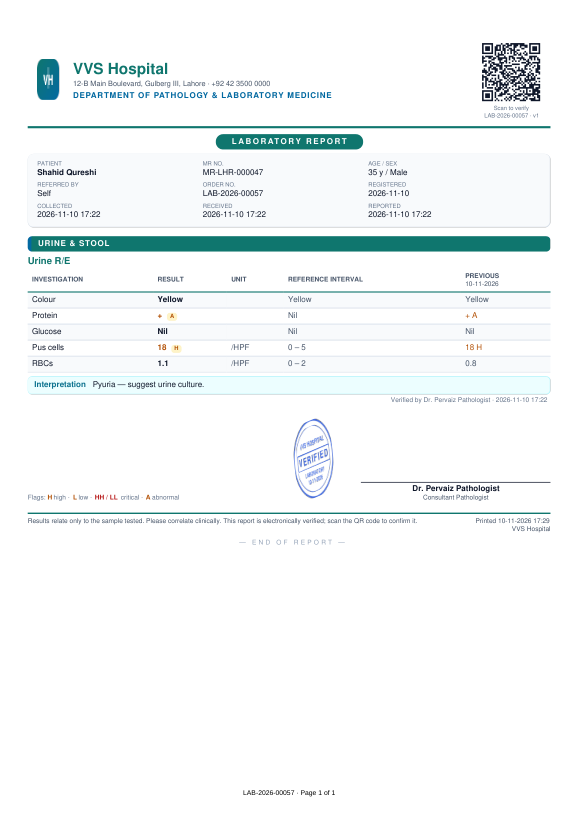
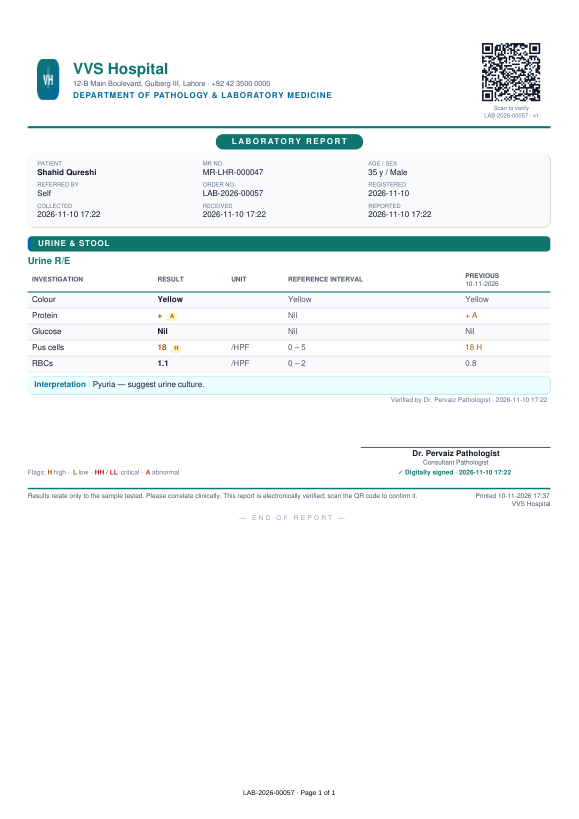
fix(lab): no stamp on the report — digitally signed line instead

Changed region(s): [[0.0311, 0.4884, 0.9637, 0.6716]]

diff --git a/hospital_vvs/services/lab.py b/hospital_vvs/services/lab.py
@@ -593,16 +593,6 @@ def _monogram(name):
 		<text x="32" y="41" font-family="Helvetica,Arial" font-size="22" font-weight="700" text-anchor="middle" fill="#fff">{frappe.utils.escape_html(letters)}</text></svg>""")
 
 
-def _stamp(clinic, date):
-	c = frappe.utils.escape_html((clinic or "").upper())[:22]
-	return _svg_uri(f"""<svg xmlns="http://www.w3.org/2000/svg" viewBox="0 0 160 160"><g transform="rotate(-12 80 80)" font-family="Helvetica,Arial" fill="#1d4ed8" text-anchor="middle">
-		<circle cx="80" cy="80" r="74" fill="none" stroke="#1d4ed8" stroke-width="4" opacity=".8"/><circle cx="80" cy="80" r="64" fill="none" stroke="#1d4ed8" stroke-width="1.5" opacity=".8"/>
-		<text x="80" y="52" font-size="13" font-weight="700" opacity=".85">{c}</text>
-		<rect x="18" y="64" width="124" height="30" rx="4" fill="none" stroke="#1d4ed8" stroke-width="2.5" opacity=".85"/>
-		<text x="80" y="86" font-size="20" font-weight="800" letter-spacing="3" opacity=".9">VERIFIED</text>
-		<text x="80" y="112" font-size="11" font-weight="700" opacity=".85">LABORATORY</text><text x="80" y="126" font-size="11" font-weight="700" opacity=".85">{frappe.utils.escape_html(date)}</text></g></svg>""")
-
-
 def print_extras(ti, tests):
 	"""Header / footer / signatory data for the printed report (D-50)."""
 	s = frappe.get_cached_doc("Clinic Settings")
@@ -613,7 +603,6 @@ def print_extras(ti, tests):
 	vuser = next((v for v in reversed(verifiers) if v and v != "Administrator"), None)
 	doc = frappe.db.get_value("Doctor", {"user": vuser}, ["doctor_name", "qualification", "registration_no", "signature"], as_dict=True) if vuser else None
 	name = (doc.doctor_name if doc else None) or s.get("lab_signatory_name") or (frappe.db.get_value("User", vuser, "full_name") if vuser else None) or "Pathologist"
-	released = getdate(ti.released_at) if ti.released_at else getdate()
 	return {"collected_at": str(col or "")[:16], "received_at": str(rec or "")[:16], "verify_url": verify_url(ti.name),
 		"print": {"department": s.get("lab_report_department") or "Department of Pathology & Laboratory Medicine", "accreditation": s.get("lab_accreditation"),
 			"footer": s.get("lab_report_footer"), "show_previous": cint(s.get("lab_show_previous") if s.get("lab_show_previous") is not None else 1),
@@ -621,7 +610,7 @@ def print_extras(ti, tests):
 			"title": (doc.qualification if doc and doc.qualification else None) or s.get("lab_signatory_title") or "Consultant Pathologist",
 			"reg": (doc.registration_no if doc else None) or s.get("lab_signatory_reg"),
 			"signature": _image_uri(doc.signature if doc and doc.signature else s.get("lab_signature")),
-			"stamp": _image_uri(s.get("lab_stamp")) or _stamp(s.clinic_name, released.strftime("%d-%m-%Y"))}}
+			"signed_at": max((str(frappe.db.get_value("Lab Result", r.result, "verified_at") or "") for r in ti.items if r.result and r.status in ("Verified", "Released")), default="")[:16]}}
 
 
 def _dmy(d):
@@ -680,7 +669,6 @@ def report_html(d):
 	remarks = f"<div class='remarks'><b>Remarks</b><br>{esc(d['remarks']).replace(chr(10), '<br>')}</div>" if d.get("remarks") else ""
 	qr = qr_data_uri(d.get("verify_url") or d["name"])
 	sig = f"<img class='sig' src='{P['signature']}'>" if P.get("signature") else "<div class='sigline'></div>"
-	stamp = f"<img class='stamp' src='{P['stamp']}'>" if P.get("stamp") else ""
 	info = [("Patient", f"<b>{esc(p['name'])}</b>"), ("MR No.", esc(p["mr"])),
 		("Age / Sex", f"{p.get('age') if p.get('age') is not None else '-'} y / {esc(p.get('gender') or '-')}"), ("Referred by", esc(d.get("referring_doctor") or "Self")),
 		("Order no.", f"{esc(d['name'])} {pr_tag}"), ("Registered", esc(d["posting_date"])), ("Collected", esc(d.get("collected_at") or "-")),
@@ -714,7 +702,7 @@ def report_html(d):
 	.remarks {{ margin: 10px 0; padding: 7px 9px; border: 1px dashed #0369a1; border-radius: 8px; background: #f0f9ff; line-height: 1.5; }}
 	.sign {{ display: table; width: 100%; margin-top: 18px; page-break-inside: avoid; }} .sign > div {{ display: table-cell; vertical-align: bottom; }}
 	.sigbox {{ text-align: center; width: 260px; position: relative; }} .sig {{ max-height: 48px; max-width: 170px; }} .sigline {{ height: 40px; }}
-	.stampc {{ width: 130px; text-align: center; }} .stamp {{ width: 112px; height: 112px; }}
+	.dsig {{ margin-top: 3px; font-size: 8.5px; font-weight: 700; color: #0f766e; }}
 	.sigbox .nm {{ border-top: 1px solid #0f172a; padding-top: 3px; font-weight: 800; font-size: 11px; }} .sigbox .tt {{ font-size: 9px; color: #475569; }}
 	.legend {{ font-size: 8.5px; color: #64748b; }}
 	.foot {{ margin-top: 14px; border-top: 2px solid #0f766e; padding-top: 5px; font-size: 8.5px; color: #475569; display: table; width: 100%; }} .foot > div {{ display: table-cell; vertical-align: top; }}
@@ -730,7 +718,8 @@ def report_html(d):
 	{''.join(parts)}
 	{remarks}
 	<div class="sign"><div class="legend">Flags: <b style="color:#b45309">H</b> high · <b style="color:#b45309">L</b> low · <b style="color:#b91c1c">HH / LL</b> critical · <b style="color:#b45309">A</b> abnormal</div>
-		<div class="stampc">{stamp}</div><div class="sigbox">{sig}<div class="nm">{esc(P.get('signatory') or '')}</div><div class="tt">{esc(P.get('title') or '')}{(' · PMDC ' + esc(P['reg'])) if P.get('reg') else ''}</div></div></div>
+		<div class="sigbox">{sig}<div class="nm">{esc(P.get('signatory') or '')}</div><div class="tt">{esc(P.get('title') or '')}{(' · PMDC ' + esc(P['reg'])) if P.get('reg') else ''}</div>
+		<div class="dsig">&#10003; Digitally signed{(' · ' + esc(P['signed_at'])) if P.get('signed_at') else ''}</div></div></div>
 	<div class="foot"><div>{esc(P.get('footer') or '')}</div><div style="text-align:right;width:180px">Printed {frappe.utils.now_datetime().strftime('%d-%m-%Y %H:%M')}<br>{esc(c['name'])}</div></div>
 	<div class="end">— END OF REPORT —</div>
 	</body></html>"""

diff --git a/hospital_vvs/devtools/schema_phase2.py b/hospital_vvs/devtools/schema_phase2.py
@@ -253,7 +253,7 @@ SETTINGS_FIELDS = [
 	f("lab_accreditation", "Data", label="Accreditation / licence line", description="e.g. PHC Licence No. … (printed under the header)"),
 	f("lab_signatory_name", "Data", label="Signatory (if the verifier has no doctor record)"), f("lab_signatory_title", "Data", default="Consultant Pathologist"),
 	f("lab_signatory_reg", "Data", label="Signatory PMDC No."), cb("lbp1"),
-	f("lab_signature", "Attach Image", label="Signature Image"), f("lab_stamp", "Attach Image", label="Stamp Image", description="Empty = a round VERIFIED stamp is drawn"),
+	f("lab_signature", "Attach Image", label="Signature Image", description="Optional scanned signature; the report is digitally signed in any case"),
 	f("lab_report_footer", "Small Text", default="Results relate only to the sample tested. Please correlate clinically. This report is electronically verified; scan the QR code to confirm it.",
 		label="Report Footer Note"),
 	f("lab_show_previous", "Check", default="1", label="Print Previous Result Column"),

diff --git a/docs/DECISIONS.md b/docs/DECISIONS.md
@@ -69,7 +69,7 @@ Choices made while building, and questions that need the owner (marked **OPEN**)
 
 | D-49 | 2026-11-10 | **Lab QA audit (owner: "act as live ERP user, audit QA/QC and generate data").** Live run of 18 scenarios / 81 checks as the real demo users (`devtools/qa_lab.py`, report `docs/QA-LAB.md`). Fixed: rejecting a sample withdraws its draft result and is refused after verification; amendment is pathologist only; a refund (credit note) against a lab bill cancels the refunded unverified tests and their samples. Owner requests during the audit: priority **Normal / Priority / Urgent** (old Routine = Normal; queues sort by it); lab orders filter **Today / Week / Month / Custom** + priority. | Owner instruction 2026-11-10. |
 
-| D-50 | 2026-11-10 | **Lab report print (owner: full, elegant, QR, logo header / footer, sign, stamp, remarks; show previous history).** A4 report: logo (Clinic Settings logo, else a monogram) + clinic name, address, phone, sub-heading and licence line; QR code; patient panel (age / sex, referring doctor, order no. + priority tag, registered / collected / received / reported); tests grouped by department with coloured H / L / HH / LL / A flags, reference interval and a **Previous** column dated from the patient's last verified result of that test (only when one exists); interpretation per test; **Report remarks** (pathologist's note on the order); signature block — verifier's doctor signature / PMDC no. if linked, else Clinic Settings signatory, signature and stamp (a round VERIFIED stamp is drawn when none is uploaded); footer note, print time, page numbers, END OF REPORT. Scanned report PDFs follow as extra pages. **QR** opens `/hms/verify-report/<order>/<signature>` (HMAC with the site secret): shows *Genuine report*, version, initials, masked MR, test list and dates — never results; a forged code shows *Not a valid report*. Result entry shows the patient's last 5 results of the test. The PDF engine has no Urdu font, so the print is English. Sample: `docs/lab-report-sample.png`. | Owner instructions 2026-11-10. |
+| D-50 | 2026-11-10 | **Lab report print (owner: full, elegant, QR, logo header / footer, sign, stamp, remarks; show previous history).** A4 report: logo (Clinic Settings logo, else a monogram) + clinic name, address, phone, sub-heading and licence line; QR code; patient panel (age / sex, referring doctor, order no. + priority tag, registered / collected / received / reported); tests grouped by department with coloured H / L / HH / LL / A flags, reference interval and a **Previous** column dated from the patient's last verified result of that test (only when one exists); interpretation per test; **Report remarks** (pathologist's note on the order); signature block — verifier's doctor signature / PMDC no. if linked, else Clinic Settings signatory and optional signature image, with "✓ Digitally signed · date" (no stamp: the report is digitally signed, owner 2026-11-10); footer note, print time, page numbers, END OF REPORT. Scanned report PDFs follow as extra pages. **QR** opens `/hms/verify-report/<order>/<signature>` (HMAC with the site secret): shows *Genuine report*, version, initials, masked MR, test list and dates — never results; a forged code shows *Not a valid report*. Result entry shows the patient's last 5 results of the test. The PDF engine has no Urdu font, so the print is English. Sample: `docs/lab-report-sample.png`. | Owner instructions 2026-11-10. |
 
 ## Open questions for the owner
 

diff --git a/docs/PROGRESS.md b/docs/PROGRESS.md
@@ -160,5 +160,5 @@ Report file (scan / photo / outside PDF) on the result screen; merged into the p
 81/81 checks after fixing 3 defects (reject after result, lab-user amendment, refund not cancelling tests); priority tags Normal / Priority / Urgent; lab orders Today / Week / Month / Custom filter; ~36 realistic lab orders in every state. Report: [QA-LAB.md](QA-LAB.md). Tests: 92 green (5 new regression tests).
 
 ## Lab report print (2026-11-10) — D-50
-Elegant A4 report with logo, QR verification page, signatory / stamp, remarks, previous result column with date, page numbers; result-entry history of the last 5 results. Tests: 93 green.
-Owner: upload the logo, signature and stamp (Clinic Settings → General / Lab → Lab report print); set the signatory name, title, PMDC no. and licence line.
+Elegant A4 report with logo, QR verification page, signatory with digital-signature line (no stamp), remarks, previous result column with date, page numbers; result-entry history of the last 5 results. Tests: 93 green.
+Owner: upload the logo (and optionally a signature image) (Clinic Settings → General / Lab → Lab report print); set the signatory name, title, PMDC no. and licence line.
